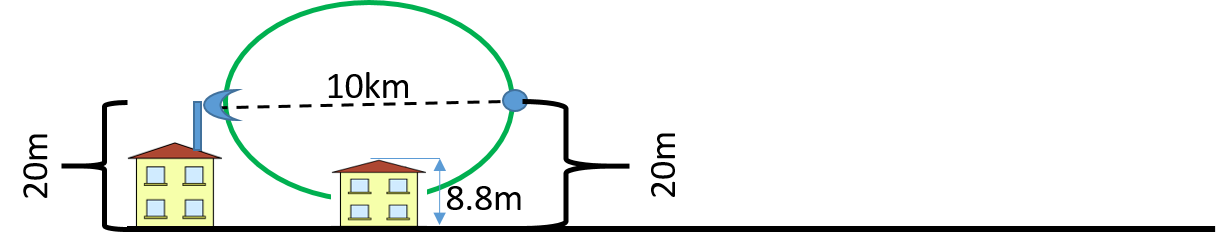
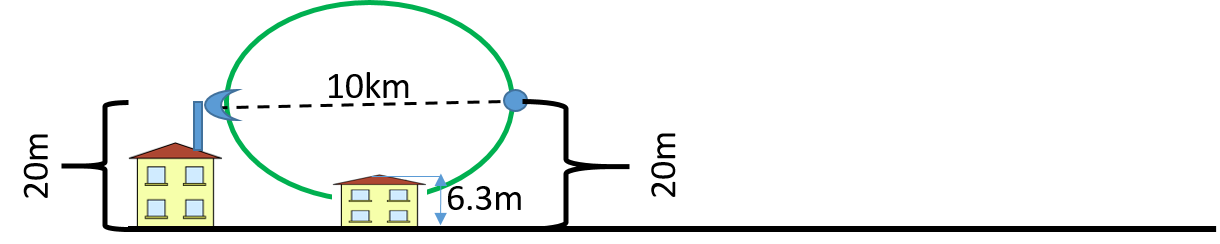
Fresnel zones

diff --git a/doc/report/sections/tele/fresnel.tex b/doc/report/sections/tele/fresnel.tex
@@ -1,5 +1,5 @@
 \section{Fresnel Zones}\label{sec:fresnel}
-Taking into account that the application at hand involves radio communication it is important to talk about the Fresnel zones. The Fresnel zone is the area around the visual line-of-sight that radio waves spread out into after they leave the antenna. The radio waves will spread out into ellipse shaped areas that stretches between the two antennas. Thus, it can be seen in Figure \ref{fig:fresnel_zones} the three Fresnel zones on the transmission path between A and B. 
+Taking into account that the application at hand involves radio communication it is important to talk about the Fresnel zones. The Fresnel zone is the area around the visual line-of-sight that radio waves spread out into after they leave the antenna. The radio waves will spread out into ellipse shaped areas that stretches between the two antennas. Thus, it can be seen in Figure \ref{fig:fresnel_zones} three Fresnel zones on the transmission path between A and B. 
 
 \begin{figure}[H]
 	\centering
@@ -20,7 +20,7 @@ Therefore it is a good idea when planning wireless links to keep the 1st Fresnel
 %The direct wave, Line of Sight, goes directly from A to B and in this example it is where nothing is blocking the signal. 
 %
 \subsection{Calculating the Fresnel Zones}
-To calculate the Fresnel zone radius at any point P in between the endpoints of the link is given by the following equation: 
+The following equation will calculate the radius of the Fresnel radius at any point P in between the endpoints of the link: 
 
 \begin{align}
 F_n = \sqrt{\frac{n \lambda d_1 d_2}{d_1+d_2}} \label{fresnel_zone_cal}
@@ -42,9 +42,7 @@ Where:
 	\label{fig:fresnel_zones}
 \end{figure}  
 
-\subsection{Calculating the 1st Fresnel Zone}
-Since the 1st Fresnel Zone is the most important, it is often useful to know the maximum radius of the zone. Here is one formula for calculating the first Fresnel zone: (\hl{Maybe show how we come from} \ref{fresnel_zone_cal} to \ref{eq:fresnel_radius} \hl{? - Kelvin})
-
+Since the 1st Fresnel Zone is the most important, it is often useful to know the maximum radius of the zone. The radius of the Fresnel Zone is at the greatest distance at point P and therefore the distances between Point A and B to P will be identical, which implies that d1 = d2 and therefore d1 + d2 = D. Converting the wavelength value to signal frequency $\lambda = \frac{c}{f}$ the following formula for calculating the first Fresnel zone can be derived:
 \begin{align}
 r= 8.657 \sqrt{\frac{D}{f}} \label{eq:fresnel_radius}
 \end{align}
@@ -57,44 +55,46 @@ Where:
 \end{itemize}
 
 \subsection{Examples with Fresnel Zones}
-In equation \ref{eq:fresnel_radius} it is clear that by changing the distance between the antennas, the radius of the Fresnel zone will also change. To show how the radius changes by changing the distance, some examples are made. In these examples a frequency of 2.4Ghz are used. The first example shows an antenna in the height of 20 meter and a drone flying in the height of 100 meter with 10km between them.
+In equation \ref{eq:fresnel_radius} it is clear that by changing the distance D between the antennas, the radius r of the Fresnel zone will also change. To show how the radius changes by changing the distance, some examples are made. In these examples a frequency of 2.4Ghz are used and the curvature of the earth is not considered.
+
+The first example shows an antenna in the height of 20 meter and a drone flying in the height of 100 meter with 10km between them.
 
 \begin{figure}[H]
 	\centering
 	\includegraphics[scale=0.50]{figures/fresnel_10km.png}
-	\caption{Fresnel zones between transmitter and receiver 10km}
+	\caption{Fresnel zones between transmitter and receiver with a distance between them of 10km}
 	\label{fig:fresnel_zones_10km}
 \end{figure}  
 
-And the radius calculated:
+\noindent And the radius calculated:
 \begin{align*}
 r1 = 8.657\cdot \sqrt{\frac{10}{2.4}} = 17.7m
 \end{align*}
 
-The second example are with a distance between them of 20km:
+\noindent The second example are with a distance between them of 20km:
 
 \begin{figure}[H]
 	\centering
 	\includegraphics[scale=0.50]{figures/fresnel_20km.png}
-	\caption{Fresnel zones between transmitter and receiver 20km}
+	\caption{Fresnel zones between transmitter and receiver with a distance between them of 20km}
 	\label{fig:fresnel_zones_20km}
 \end{figure}  
 
-And the radius calculated:
+\noindent And the radius calculated:
 \begin{align*}
 r2 = 8.657\cdot \sqrt{\frac{20}{2.4}} = 25.0m
 \end{align*}
 
-The third example are with a distance between them of 20km:
+\noindent The third example are with a distance between them of 20km:
 
 \begin{figure}[H]
 	\centering
 	\includegraphics[scale=0.50]{figures/fresnel_50km.png}
-	\caption{Fresnel zones between transmitter and receiver 50km}
+	\caption{Fresnel zones between transmitter and receiver with a distance between them of 50km}
 	\label{fig:fresnel_zones_50km}
 \end{figure}  
 
-And the radius calculated:
+\noindent And the radius calculated:
 \begin{align*}
 r3 = 8.657\cdot \sqrt{\frac{50}{2.4}} = 39.5m
 \end{align*}
@@ -102,26 +102,40 @@ r3 = 8.657\cdot \sqrt{\frac{50}{2.4}} = 39.5m
 \noindent In these examples it is demonstrated that the radius of the Fresnel Zone increases when the distance between the antennas increases.
 
 \subsection{60\% of the 1st Fresnel Zone}
-Lets try to find out how tall a structure could be at the center of the Fresnel Zone, if 60\% should be clear of this zone, i.e 40\% should be blocked. Lets assume as on figure \ref{fig:fresnel_zones_10km_height} that both antennas are at a height of 20 meters. Here the first Fresnel zone would pass just 2.3 meters above ground level in the middle of the link. 
+Lets try to find out how tall a structure could be at the center of the Fresnel Zone, if 60\% should be clear of this zone, i.e 40\% should be blocked. For this the following equation must be used:
 
-\begin{figure}[H]
-	\centering
-	\includegraphics[scale=0.50]{figures/fresnel_10km_height.png}
-	\caption{Fresnel zones between transmitter and receiver 10km}
-	\label{fig:fresnel_zones_10km_height}
-\end{figure}  
+\begin{align*}
+r = 8.657\cdot \sqrt{\frac{0.6D}{f}}
+\end{align*}
+
+Lets assume that both antennas are at a height of 20 meters and operating at 2.6GHz:
 
 \begin{align*}
 \text{radius} = 8.657\cdot \sqrt{\frac{10}{2.4}} = 17.7m
 \end{align*}
 
-Now lets calculate how tall a structure should be if 40\% of the signal should be blocked:
+Here the first Fresnel zone would pass just 2.3 meters above ground level in the middle of the link. 
+
+\begin{figure}[H]
+	\centering
+	\includegraphics[scale=0.50]{figures/fresnel_10km_height.png}
+	\caption{Fresnel zones between transmitter and receiver  with a distance between them of 10km. The antennas have same height above ground level.}
+	\label{fig:fresnel_zones_10km_height}
+\end{figure}  
+
+\noindent Now lets calculate how tall a structure should be if 60\% of the signal should be cleared:
 
 \begin{align*}
-\text{radius} = 8.657\cdot \sqrt{0.4\cdot \frac{10}{2.4}} = 11.2m
+\text{radius} = 8.657\cdot \sqrt{0.6\cdot \frac{10}{2.4}} = 13.7m
 \end{align*}
   
-By subtracting this result from 20 meters it can be seen that a structure 8.8 meters tall at the center of the link would block up to 40\% of the 1st Fresnel Zone. A illustration of this is shown in figure \ref{fig:fresnel_zones_10km_60procent}.
+\noindent By subtracting this result from the antenna height, the maximum height of any obstruction between the devices within 60\% clear Fresnel Zone can be calculated:
+
+\begin{align*}
+\text{Maximum Obstruction Height} = 20 - 13.7 = 6.3m
+\end{align*}
+
+Therefore the maximum permissible height of any obstruction located between the two antennas, 10km apart, operating at 2.4GHz, at antenna heights of 20m with a minimum clearance Fresnel Zone of 60\% is 6.3m. An illustration of this is shown in figure \ref{fig:fresnel_zones_10km_60procent}.
 
 \begin{figure}[H]
 	\centering
@@ -130,7 +144,7 @@ By subtracting this result from 20 meters it can be seen that a structure 8.8 me
 	\label{fig:fresnel_zones_10km_60procent}
 \end{figure}  
 
-To improve this problem, the antenna need to be positioned higher up, or the direction of the link should be changed to avoid obstacles.
+\noindent A obstruction higher then 6.3m will give less then 60\% clearance of the Fresnel Zone. To prevent this problem, the antenna need to be positioned higher up, or the direction of the link should be changed to avoid obstacles.
 
 %The 1st zone is the ellipse with chords 1/2 wavelength longer than the direct path (ACB).
 %If a reflective object is very near the direct path, the signal will experience a 180o phase shift and cancel the direct wave at the receiver.

diff --git a/src/matlab/Fresnel Zones/fresnellzone.m b/src/matlab/Fresnel Zones/fresnellzone.m
@@ -19,6 +19,12 @@ disp(['r1 = ',num2str(r1),' m',' @10km'])
 disp(['r2 = ',num2str(r2),'m',' @20km'])
 disp(['r3 = ',num2str(r3),'m',' @50km'])
 %%
+%Maximum obstruction height
+
+D = 10; f = 2.4;
+r = 8.657*sqrt(0.6*D/f)
+max_obstruction = 20 - r
+%%
 
 D = 1:1:50
 r = 8.657*sqrt(D/f)'
